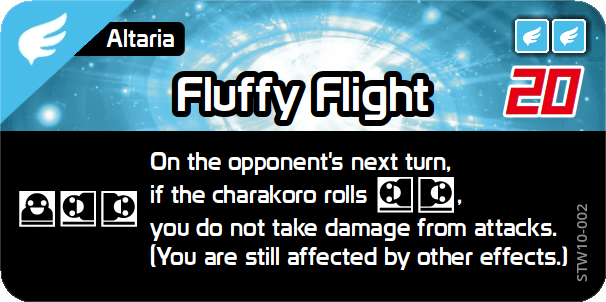
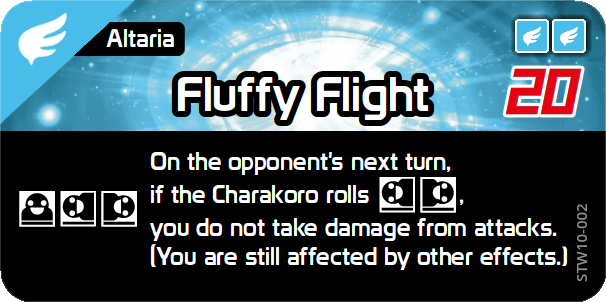
STW10-002

Changed region(s): [[0.3267, 0.596, 0.7723, 0.7152]]

diff --git a/database/text/wazacards/ST/10-001_altaria.md b/database/text/wazacards/ST/10-001_altaria.md
@@ -32,11 +32,11 @@
 | Energy    | {Y}{Y}                                                                                                                                        |
 | Damage    | 20                                                                                                                                            |
 | Effect    |                                                                                                                                               |
-| Standing  | On the opponent's next turn, if the charakoro rolls {s1}{s2}, you do not take damage from attacks. (You are still affected by other effects.) |
+| Standing  | On the opponent's next turn, if the Charakoro rolls {s1}{s2}, you do not take damage from attacks. (You are still affected by other effects.) |
 | Handstand |                                                                                                                                               |
 | Back      |                                                                                                                                               |
 | Down      |                                                                                                                                               |
-| Sideways  | On the opponent's next turn, if the charakoro rolls {s1}{s2}, you do not take damage from attacks. (You are still affected by other effects.) |
+| Sideways  | On the opponent's next turn, if the Charakoro rolls {s1}{s2}, you do not take damage from attacks. (You are still affected by other effects.) |
 
 [Fluffy Flight](https://bandai-hobby.net/site/pokemon/plakoro/images/products/st10/01/img_wazacard02.webp)
 
